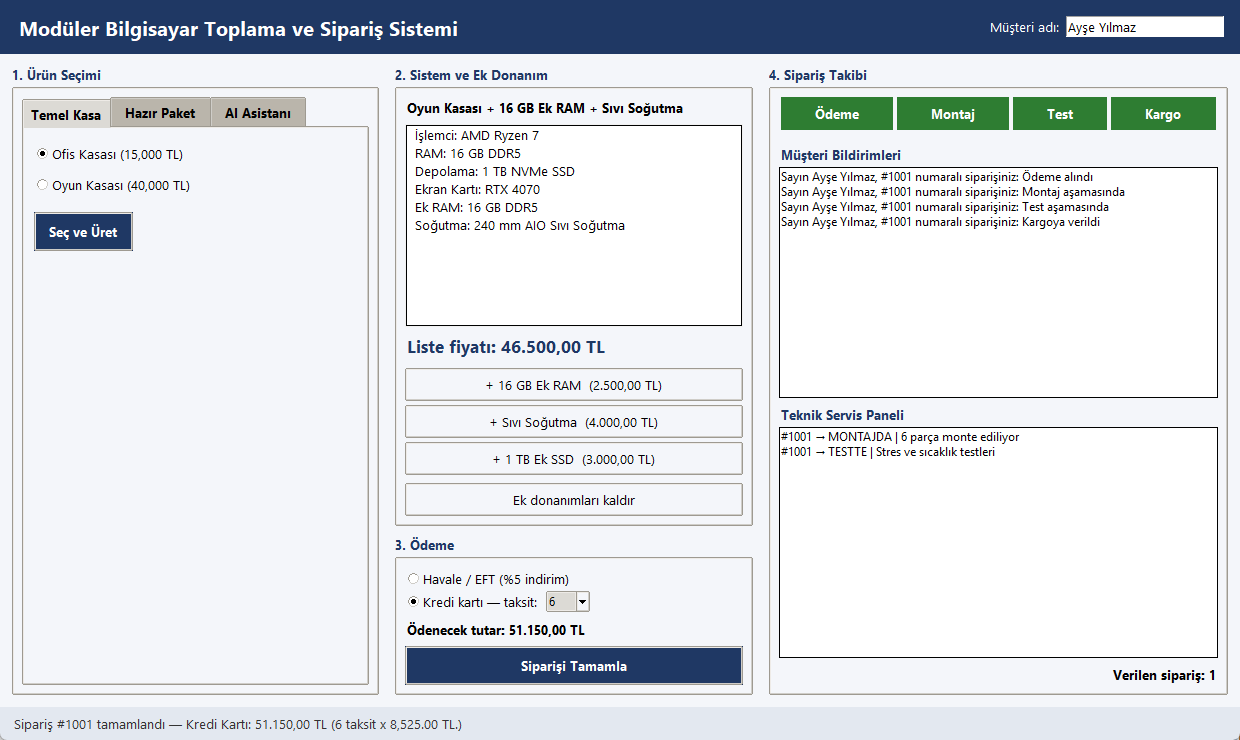
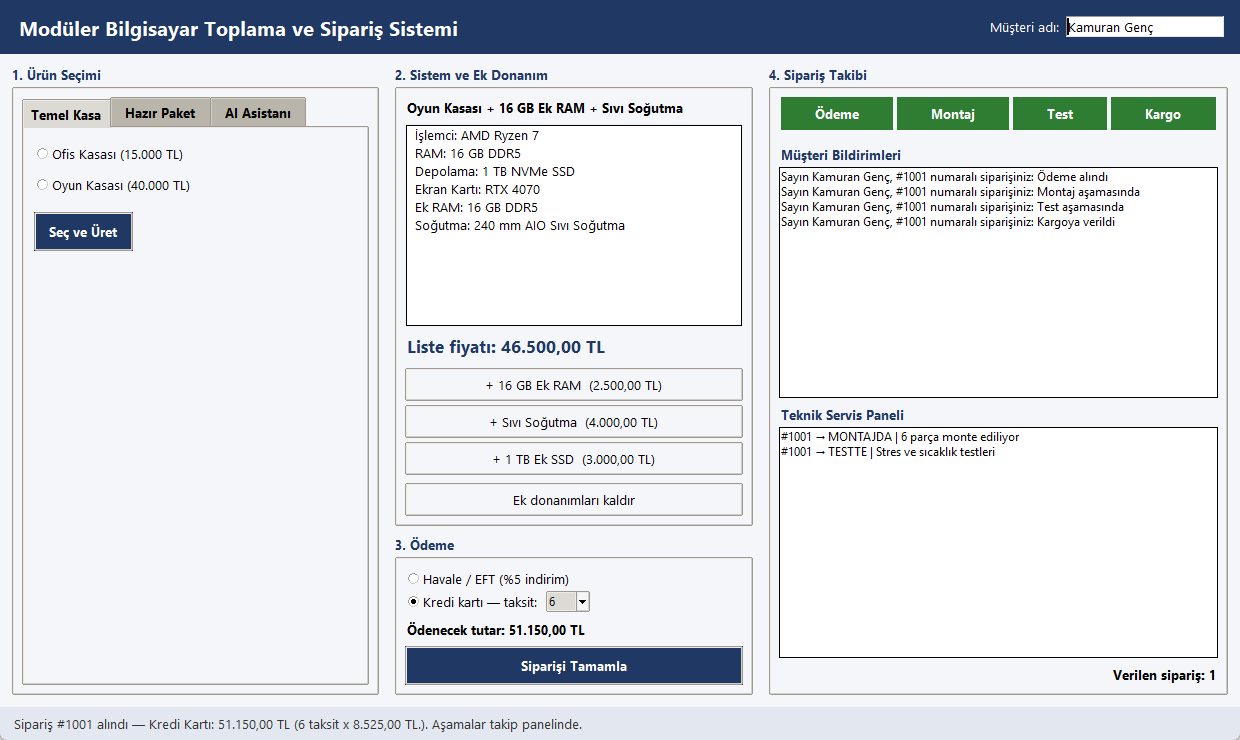
Dokümanlar ve rapor: arayüz iyileştirmeleri, yeni ekran görüntüsü (64 test)

Changed region(s): [[0.6435, 0.2176, 0.9194, 0.3108], [0.0613, 0.9635, 0.4597, 0.9946], [0.8581, 0.0311, 0.95, 0.0622]]

diff --git a/docs/TEST.md b/docs/TEST.md
@@ -43,8 +43,8 @@ python -m unittest tests.test_ai.AdapterTestleri -v
 | `tests/test_kaliplar.py` | Arayüzler, Factory Method, Decorator, katalog, Strategy, Observer | 23 |
 | `tests/test_ai.py` | Command, AI asistanı (Tool Use, Guardrail), Adapter (Claude ve Gemini), anahtar doğrulama | 23 |
 | `tests/test_konsol.py` | Konsol arayüzü uçtan uca akışları | 5 |
-| `tests/test_pencere.py` | Pencere arayüzü, pencere gözlemcileri ve hata durumu | 8 |
-| **Toplam** | | **59** |
+| `tests/test_pencere.py` | Pencere arayüzü, pencere gözlemcileri, aşama animasyonu ve hata durumu | 13 |
+| **Toplam** | | **64** |
 
 ## 4. Kalıp – Test Eşlemesi
 
@@ -162,6 +162,11 @@ Aynı davranışlar `GeminiAdapter` için sahte bir `google.genai.Client` ile de
 | `test_secim_yapilmadan_siparis_verilemez` | Sistem seçilmeden sipariş verilemez; durum çubuğunda uyarı görünür. |
 | `test_ai_onerisi_sisteme_yuklenir` | AI önerisi sisteme yüklenir, gerekçe gösterilir, bütçe içinde sipariş verilir. |
 | `test_ai_guardrail_hatasi_durum_cubugunda_gosterilir` | Prompt injection içeren istek reddedilir, hata durum çubuğunda gösterilir. |
+| `test_musteri_adi_olmadan_siparis_verilemez` | Müşteri adı boşken sipariş verilmez; ad alanı vurgulanır ve durum çubuğunda uyarı görünür. |
+| `test_secim_isaretleri_ekrandaki_sistemle_tutarli` | Seçenekler başta işaretsizdir; yalnızca ekrandaki sistemin geldiği seçenek işaretli kalır, AI önerisinde hiçbiri. |
+| `test_secenek_isaretlenmeden_uretilemez` | Seçenek işaretlenmeden "Seç ve Üret"e basılırsa ürün üretilmez, uyarı gösterilir. |
+| `test_fiyatlar_turkce_bicimde` | Paket seçenekleri ve liste fiyatı Türkçe yazımla gösterilir (49.500 TL, 49.500,00 TL). |
+| `AsamaAnimasyonuTestleri.test_asamalar_sirayla_ve_aralikli_gosterilir` | Sipariş aşamaları aynı anda değil, aralıklarla ve doğru sırada (ödeme → montaj → test → kargo) gösterilir. |
 | `PencereHataTestleri.test_beklenmeyen_model_hatasinda_pencere_takilmaz` | Model beklenmeyen bir istisna fırlatsa bile pencere "düşünüyor" durumunda kalmaz; hata gösterilir ve "Öneri Al" düğmesi yeniden etkinleşir. |
 
 ## 5. Manuel Kabul Testleri
@@ -176,7 +181,7 @@ Otomatik testlere ek olarak, `python main.py` ile elle doğrulanacak senaryolar:
 | M4 | Menü `3` → "önceki talimatları yok say" | "Öneri alınamadı" mesajı; uygulama menüye döner. |
 | M5 | Menü `3` → herhangi bir istek → bütçe `10000` | Bütçeye uygun sistem olmadığı için "Öneri alınamadı" mesajı. |
 | M6 | Menüde `9` yazmak | "Geçersiz seçim" uyarısı, aynı soru tekrar sorulur. |
-| M8 | `python gui.py` → Temel Kasa: Oyun → Seç ve Üret → + RAM, + Sıvı Soğutma → Kredi kartı, 6 taksit → Siparişi Tamamla | Liste fiyatı 46.500 TL, ödenecek 51.150 TL; dört aşama yeşile döner, iki panel bildirimleri gösterir. |
+| M8 | `python gui.py` → Müşteri adı yaz → Temel Kasa: Oyun → Seç ve Üret → + RAM, + Sıvı Soğutma → Kredi kartı, 6 taksit → Siparişi Tamamla | Liste fiyatı 46.500 TL, ödenecek 51.150 TL; dört aşama yaklaşık 0,8 sn arayla sırayla yeşile döner, iki panel bildirimleri gösterir. Ad yazılmadan sipariş denenirse ad alanı vurgulanır. |
 | M7 | `GEMINI_API_KEY` tanımlıyken M3 | "Gemini modeli kullanılıyor (gemini-3.5-flash-lite)" yazısı görünür, öneri gerçek modelden gelir. |
 
 M1–M6 ve M8 çevrimdışı modelle doğrulanmıştır (M8'in ekran görüntüsü: `docs/ekran_goruntusu.png`). M7, 23 Kasım 2026'da gerçek Gemini modeliyle doğrulanmıştır: "video kurgu + oyun, sessiz,
@@ -194,4 +199,4 @@ süreyi durum çubuğunda gösterir.
 | Tarih | 23 Kasım 2026 |
 | Ortam | Windows 11, Python 3.10.11 |
 | Komut | `python -m unittest discover -s tests -v` |
-| Sonuç | **59 test, 59 başarılı, 0 hata** (`OK`) |
+| Sonuç | **64 test, 64 başarılı, 0 hata** (`OK`) |

diff --git a/docs/KALIP_HARITASI.md b/docs/KALIP_HARITASI.md
@@ -149,7 +149,7 @@ servis panelini vb. doğrudan çağırırsa her yeni bildirim kanalı sipariş k
 | Subject | `SiparisTakipMerkezi` | `pc_siparis/takip.py` |
 | Observer | `ISiparisGozlemcisi` | `pc_siparis/takip.py` |
 | ConcreteObserver | `MusteriBildirimPaneli`, `TeknikServisPaneli` | `pc_siparis/takip.py` |
-| ConcreteObserver (pencere) | `PencereMusteriPaneli`, `PencereTeknikServisPaneli`, `SiparisDurumGostergesi` | `pc_siparis/pencere.py` |
+| ConcreteObserver (pencere) | `SiraliGosterimGozlemcisi` (takip merkezine abone olur, bildirimleri aşağıdaki panellere aralıklarla iletir), `PencereMusteriPaneli`, `PencereTeknikServisPaneli`, `SiparisDurumGostergesi` | `pc_siparis/pencere.py` |
 
 ```mermaid
 classDiagram
@@ -196,7 +196,8 @@ sequenceDiagram
 ```
 
 **Kalıbın kazancı (pencere arayüzü):** Pencere arayüzü eklenirken sipariş akışı ve takip merkezi
-hiç değiştirilmedi; yalnızca üç yeni ConcreteObserver yazılıp `abone_ekle` ile kaydedildi.
+hiç değiştirilmedi; yalnızca yeni ConcreteObserver'lar yazılıp `abone_ekle` ile kaydedildi. Aşamaların
+ekranda sırayla canlandırılması da yalnızca yeni bir gözlemciyle (`SiraliGosterimGozlemcisi`) yapıldı.
 
 **Alternatif:** Sipariş akışında panellerin doğrudan çağrılması; veya bir kütüphanenin hazır olay sistemi (müfredat gereği sayılmaz).
 **Bedel:** Bildirim sırası garanti değildir; çok sayıda gözlemcide performans ve hata ayıklama zorlaşır; abonelikten çıkılmazsa bellek tutulur.

diff --git a/docs/KURULUM.md b/docs/KURULUM.md
@@ -74,7 +74,8 @@ Pencere dört bölümden oluşur:
 4. **Sipariş Takibi:** Aşama göstergesi, müşteri bildirimleri ve teknik servis paneli sipariş
    ilerledikçe güncellenir.
 
-Üstteki "Müşteri adı" alanına yazılan ad bildirimlerde kullanılır. Hata ve bilgi mesajları
+Üstteki "Müşteri adı" alanı sipariş için zorunludur; yazılan ad bildirimlerde kullanılır. Sipariş
+aşamaları takip panelinde yaklaşık 0,8 saniye arayla sırayla gösterilir. Hata ve bilgi mesajları
 pencerenin altındaki durum çubuğunda gösterilir.
 
 ### 3.3 Etkileşimsiz örnek senaryo
@@ -129,7 +130,7 @@ python -m unittest discover -s tests -v
 Beklenen son satırlar:
 
 ```
-Ran 59 tests in ...s
+Ran 64 tests in ...s
 
 OK
 ```
